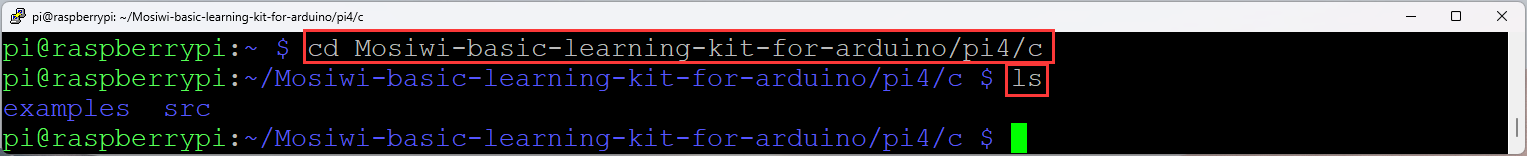
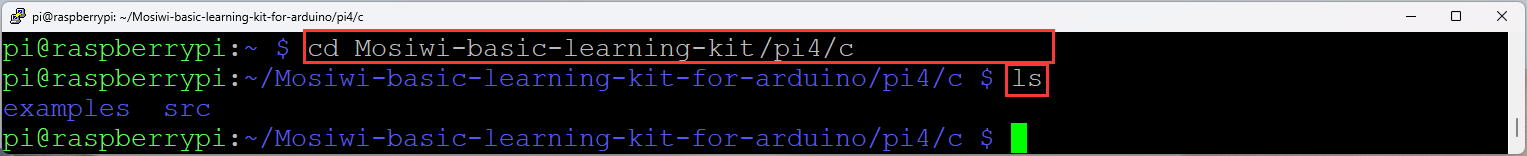
init

Changed region(s): [[0.4925, 0.2308, 0.7079, 0.359]]

diff --git a/docs/source/common_product/C1K0000_4in1_basic_learning_kit/Arduino_tutorial/Basic_tutorial.md b/docs/source/common_product/C1K0000_4in1_basic_learning_kit/Arduino_tutorial/Basic_tutorial.md
@@ -1,0 +1,219 @@
+# Based tutorial   
+Learn simple programming syntax based on the UNO board, and learn the most comprehensive Arduino basics in the fastest way.     
+
+## Previous preparation   
+1. Install the [**Arduino IDE**](../../../arduino/arduino_ide/arduino_ide.md).     
+2. Basic operation of the [**Arduino UNO R3**](../../../arduino/A1D0000_uno_r3/A1D0000_uno_r3.md) motherboard.    
+3. Learn about [**3in1 basic learning shield**](../../../arduino/A1E0000_basic_learning_shield/A1E0000_basic_learning_shield.md).  
+
+## Chapter_1 Blink    
+
+**Curriculum question:**     
+1. What is LED light ?     
+2. setup() and loop() functions in Arduino program.    
+3. How to set up and use digital outlet?   
+4. How to use the delay() delay function?  
+5. How to use the comment symbols in the code: //, /* ... */    
+
+**Program flow diagram:**   
+![Img](../../../_static/common_product/C1K0000_4in1_basic_learning_kit/Arduino_tutorial/Basic_tutorial/2img.png)     
+
+**Open the example code: "1.0.0_Blink"**     
+![Img](../../../_static/common_product/C1K0000_4in1_basic_learning_kit/Arduino_tutorial/Basic_tutorial/1img.png)    
+<span style="color: rgb(255, 76, 65);">Note: All the sample code in the following sections is opened in the same way as in the figure above.</span>     
+
+**Example code phenomena:**    
+The RGB LED on the expansion board emits a red light every 1 second.    
+![Img](../../../_static/common_product/C1K0000_4in1_basic_learning_kit/Arduino_tutorial/Basic_tutorial/4img.png)    
+
+**FAQ:**
+(1) What is LED light?    
+Leds are also known as light-emitting diodes. It has positive and negative poles, generally the shorter pin or the pin near the gap is the negative pole, and the other end is the positive pole. Only when the forward current is connected, the LED light will be lit. Its current is generally required to be about 5-15ma, so resistors are often used in series with leds to achieve current limiting.     
+![Img](../../../_static/common_product/C1K0000_4in1_basic_learning_kit/Arduino_tutorial/Basic_tutorial/3img.png)     
+
+(2) "setup()" and "loop()" functions in Arduino program.
+"setup()" and "loop()" are two functions defined by Arduino. All Arduino programs have and only have one "setup()" and "loop()" functions. When the arduino program is running, the code inside "setup()" is executed first, and then the code inside "loop()" is looped.     
+
+(3) How to set the I/O port to digital output mode?     
+Pins 2-13 on the UNO board can be set to digital output mode to output logic "0" (low level, 0V) and logic "1" (high level, 5V) on the pin.     
+```
+Syntax:    
+pinMode(pin, mode);   
+
+Parameters:  
+pin: The pin number of the arduino motherboard (2-13 for UNO).   
+mode: INPUT, OUTPUT, or INPUT_PULLUP.   
+
+INPUT: Digital input mode.    
+OUTPUT: Digital output mode.     
+INPUT_PULLUP: Digital input mode with pull resistance.        
+```
+
+When mode is set to OUTPUT mode, use the following statement to make the IO port output high or low:    
+```
+Syntax:
+digitalWrite(pin, value);
+
+Parameters:
+pin: The pin number of the arduino motherboard (2-13 for UNO).
+value: HIGH or LOW.
+
+"HIGH" : High level, digital value is 1, voltage value is 5V.
+LOW: Low level, digital value is 0, voltage value is 0V.   
+```
+(4) How to use the delay() function?    
+The delay() function is used to pause the program for a period of time, which can be customized.    
+```
+Syntax:
+delay(ms);
+
+Parameters:
+ms: The value ranges from 0 to 4294967295, in milliseconds.
+```
+
+(5) How to use the comment symbols in the code: //, /\*...\*/
+When we want to parse the function and function of the code with text, we need to use the single-line comment (//) and block comment symbols(/\*...\*/). The text after the comment does not participate in the code running, but is only used to parse the code.     
+```
+Syntax:
+// Text content that needs to be commented
+
+/* Text content to be commented */
+
+/ *
+Text content to be commented
+Text content to be commented
+* /
+```
+
+## Chapter_2 Button    
+
+**Curriculum question:**     
+(1) What is a button?    
+(2) What are variables, byte variables and global variables?    
+(3) How to use the assignment operator: =       
+(4) How to set up and use the digital input port?    
+(5) How to use relational operators: ==,! =   
+(6) How to use the judgment statement: if        
+
+**Program flow diagram:**   
+![Img](../../../_static/common_product/C1K0000_4in1_basic_learning_kit/Arduino_tutorial/Basic_tutorial/5img.png)     
+
+**Open the example code: "1.1.0_Button"**     
+Open the sample code using the methods in **"Chapter_1"**.   
+
+**Example code phenomena:**   
+When the "OK" key is pressed, the red RGB LED lights up, otherwise the RGB LED does not light up.    
+![Img](../../../_static/common_product/C1K0000_4in1_basic_learning_kit/Arduino_tutorial/Basic_tutorial/6img.png)     
+
+**FAQ:**
+(1) What is a button?   
+The key is A press switch, as shown in the following figure, A and B, C and D are directly connected inside, when no press, AB and CD are not connected, when the key is pressed, AB and CD are connected.    
+![Img](../../../_static/common_product/C1K0000_4in1_basic_learning_kit/Arduino_tutorial/Basic_tutorial/7img.png)     
+
+(2) What are variables, byte variables and global variables?   
+Variables come from mathematics and are abstract concepts in computer language that can store calculation results or represent values. Variables can be accessed by variable name.    
+![Img](../../../_static/common_product/C1K0000_4in1_basic_learning_kit/Arduino_tutorial/Basic_tutorial/8img.png)     
+
+**byte** variable is a variable defined by the arduino programming language, and its value ranges from 0 to 255.   
+```  
+Syntax:
+byte var = val;
+
+Parameters:
+var: Parameter name.
+val: The value assigned to the var.
+```
+
+**Global variable** applies to the entire program and is defined outside the stup() and loop() functions, and not inside other functions. The "buttonPin", "ledPin", and "buttonState" variables defined in the sample code can be used in stup() and loop() functions, or in other functions.    
+```
+Syntax: 
+byte buttonPin;          
+byte ledPin;          
+byte buttonState; 
+```
+
+(3) How to use the assignment operator?
+The assignment symbol is "=", note that this symbol is not an equal sign, as in the example:    
+```
+Syntax: 
+buttonPin   = 2;    
+ledPin      = 5;       
+buttonState = 0; 
+```
+
+(4) How to set up and use the digital input port?    
+Pins 2-13 on the UNO board can be set to digital input mode to read the logic "0" (low level, 0V) and "1" (high level, 5V) of the pins.     
+
+Set the pin to digital input mode.      
+```
+Syntax:    
+pinMode(pin, INPUT);   
+
+Parameters:  
+pin: The pin number of the arduino motherboard (2-13 for UNO).           
+```
+Read the value on the pin:   
+```
+Syntax:
+digitalRead(pin);
+
+Parameters:
+pin: The pin number of the arduino board (2-13 for UNO).
+
+Return value:
+HIGH or LOW.
+
+HIGH: High level. The digital value is 1, and the voltage value is greater than 3V.
+LOW: Low level. The digital value is 0 and the voltage is less than 1.5V.
+```
+
+(5) How to use relational operators: ==,! = 
+The equal and unequal relation operators are "==" and "!= ". Commonly used with judging conditions true and false. If variable A is assigned 10 and variable B is assigned 20, then:    
+| symbol | annotation | example |    
+| :--: | :--: | :--: |    
+| == | Check whether the values of the two variables are equal. If equal, the condition is true, otherwise the condition is false. | (A == B) is false |   
+| != | Check whether the values of the two variables are equal. If equal, the condition is true, otherwise the condition is false. | (A != B) is true |     
+
+In the sample code:   
+```
+buttonState == LOW
+buttonState != LOW
+```
+
+(6) How to use the judgment statement: if     
+![Img](../../../_static/common_product/C1K0000_4in1_basic_learning_kit/Arduino_tutorial/Basic_tutorial/9img.png)    
+```
+Syntax:
+if (condition) {
+//statement(s)
+}
+
+Parameters:
+condition: A boolean expression (true or false).
+
+Example:
+if (buttonState == LOW) {
+digitalWrite(ledPin, HIGH);
+}
+
+if (buttonState ! = LOW){
+digitalWrite(ledPin, LOW);
+}
+```
+
+
+
+**End!**    
+For more exciting tutorials, check out the [intermediate tutorial](./Intermediate_tutorial.md)!    
+
+
+
+
+
+
+
+
+
+
+
+

diff --git a/docs/source/arduino/A1E0000_basic_learning_shield/A1E0000_basic_learning_shield.md b/docs/source/arduino/A1E0000_basic_learning_shield/A1E0000_basic_learning_shield.md
@@ -27,19 +27,26 @@ The arduino basic learning shield is based on Uno r3 mainboard design, board set
 | 12. I2C interface (A5, A4 V, G). |
 | 13. Standby interface (G, 6, 5, V, G) |
 
-## Integration library
-**Arduino IDE 2.0.x**  
-Open up the IDE，with the editor open, let's take a look at the left column. Here, we can see a couple of icons.       
+## Integration library     
+This library package is available for Arduino: UNO and NANO, Raspberry pi 4B, and Raspberry pi pico.  
+Download resource: <https://github.com/Mosiwi/Mosiwi-basic-learning-kit>  
 ![Img](../../_static/arduino/A1E0000_basic_learning_shield/3img.png)  
-1. Let's click the on the **"library"** icon.  
-2. Enter **"Mosiwi Basic Learning Kit"** in the search box.  
-3. <span style="color: rgb(255, 76, 65);">It is recommended to select the highest version of the library in the **down menu**.</span>    
-4. Select **"INSTALL"** to install the library.    
+For Arduino UNO and NANO: C++ && C_language  
+For Raspberry pi4: C_language    
+For Raspberry pi pico: Python 
 
+Load the "Mosiwi-basic-learning-kit-main.zip" file downloaded above into the arduino IDE in the following two ways:   
+**(1) Importing a .zip Library**  
+![Img](../../_static/arduino/A1E0000_basic_learning_shield/4img.png)     
+Select the compressed library file to load:    
+![Img](../../_static/arduino/A1E0000_basic_learning_shield/5img.png)    
 
-**Arduino IDE 1.8.x**  
-Open up the IDE, choose "Sketch" > "Include Library" > "Manage Libraries", fill in "Mosiwi Basic Learning Kit" in the search bar, Then select "Install" to Install the library.  
-![Img](../../_static/arduino/A1E0000_basic_learning_shield/4img.png)  
+**(2) Manual Installation**    
+Unzip the "Mosiwi-basic-learning-kit-main.zip" file into the "C:\Users\Administrator\Documents\Arduino\libraries" folder on your PC:     
+![Img](../../_static/arduino/A1E0000_basic_learning_shield/6img.png)      
+
+**Open the sample code in the library file:**    
+![Img](../../_static/arduino/A1E0000_basic_learning_shield/7img.png)     
 
 ## Download
 |      |      |      |      |

diff --git a/docs/source/common_product/C1K0000_4in1_basic_learning_kit/Rpi4_tutorial/C_tutorial.md b/docs/source/common_product/C1K0000_4in1_basic_learning_kit/Rpi4_tutorial/C_tutorial.md
@@ -12,13 +12,13 @@ If you don't have Raspberry pi4 basics, you can follow the link to learn the bas
 **Download sample code**   
 [Login to Raspberry pi4 using PUTTY](../../../raspberry/R1D0000_raspberry_pi4/R1D0000_raspberry_pi4.md#remote-access), then use the following command to download the sample code:      
 ```   
-git clone https://github.com/Mosiwi/Mosiwi-basic-learning-kit-for-arduino     
+git clone https://github.com/Mosiwi/Mosiwi-basic-learning-kit     
 ```    
 ![Img](../../../_static/common_product/C1K0000_4in1_basic_learning_kit/pi4_tutorial/1img.png)    
 
 The file in the "**Mosiwi-basic-learning-kit-for-arduino -> pi4 -> c**" folder is the sample code：           
 ```
-cd Mosiwi-basic-learning-kit-for-arduino/pi4/c
+cd Mosiwi-basic-learning-kit/pi4/c
 
 ls
 ```
@@ -50,7 +50,7 @@ Resource: [GNU Make](https://www.gnu.org/software/make/)(Makefile)
 **Objective_1:**       
 Terminal into the **"1.0.0_Terminal"** folder:    
 ```
-cd ~/Mosiwi-basic-learning-kit-for-arduino/pi4/c/examples/1.0.0_Terminal/    
+cd ~/Mosiwi-basic-learning-kit/pi4/c/examples/1.0.0_Terminal/    
 ```
 Permission to view execution files:   
 ```
@@ -148,7 +148,7 @@ int main(void) {
 **Demonstration:**       
 Run the following command on the terminal:       
 ```
-cd ~/Mosiwi-basic-learning-kit-for-arduino/pi4/c/examples/1.0.1_Arithmetic_operation/     
+cd ~/Mosiwi-basic-learning-kit/pi4/c/examples/1.0.1_Arithmetic_operation/     
 chmod 777 arithmetic_operation     
 sudo ./arithmetic_operation
 ```

diff --git a/docs/source/common_product/C1K0000_4in1_basic_learning_kit/C1K0000_4in1_basic_learning_kit.md b/docs/source/common_product/C1K0000_4in1_basic_learning_kit/C1K0000_4in1_basic_learning_kit.md
@@ -16,8 +16,14 @@ This kit is suitable for teaching and learning programming, providing tutorial m
 ## Course    
 This kit provides tutorials based on 4 types of motherboards, but only pico motherboards are provided, and the others need to be purchased by yourself.    
 
-| Microbit | Raspberry pico | Arduino UNO | Raspberry pi 4 |
+| Microbit | Raspberry pico | Arduino UNO (C and C++) | Raspberry pi 4 |
 | :--: | :--: | :--: | :--: |
-| [Makecode](./Microbit_tutorial/Makecode_tutorial.md) | [MicroPython](./Pico_tutorial/python_tutorial.md) | [Zero-based (C and C++)](./Arduino_tutorial/Zero-based_tutorial.md) | [C language](./Rpi4_tutorial/C_tutorial.md) |
-| xxx | xxx | [Intermediate (C and C++)](./Arduino_tutorial/Intermediate_tutorial.md) | xxx |
-| xxx | xxx | [Advance (C and C++)](./Arduino_tutorial/Advance_tutorial.md) | xxx |
+| [Makecode](./Microbit_tutorial/Makecode_tutorial.md) | [MicroPython](./Pico_tutorial/python_tutorial.md) | [Zero-based](./Arduino_tutorial/Zero-based_tutorial.md) | [C language](./Rpi4_tutorial/C_tutorial.md) |     
+| xxx | xxx | [Basic](./Arduino_tutorial/Basic_tutorial.md) | xxx |
+| xxx | xxx | [Intermediate](./Arduino_tutorial/Intermediate_tutorial.md) | xxx |
+| xxx | xxx | [Advanced](./Arduino_tutorial/Advanced_tutorial.md) | xxx |
+
+
+
+
+

diff --git a/docs/source/index_rst/common/kit/C1K0000_4in1_basic_learning_kit.rst b/docs/source/index_rst/common/kit/C1K0000_4in1_basic_learning_kit.rst
@@ -17,8 +17,9 @@ Return to the listing page: `Go back`_
    Microbit_Makecode_tutorial <../../../common_product/C1K0000_4in1_basic_learning_kit/Microbit_tutorial/Makecode_tutorial.md>
    Raspberry-Pico_python_tutorial <../../../common_product/C1K0000_4in1_basic_learning_kit/Pico_tutorial/python_tutorial.md>
    Arduino_Zero-based_tutorial <../../../common_product/C1K0000_4in1_basic_learning_kit/Arduino_tutorial/Zero-based_tutorial.md>
+   Arduino_Basic_tutorial <../../../common_product/C1K0000_4in1_basic_learning_kit/Arduino_tutorial/Basic_tutorial.md>
    Arduino_Intermediate_tutorial <../../../common_product/C1K0000_4in1_basic_learning_kit/Arduino_tutorial/Intermediate_tutorial.md>
-   Arduino_Advance_tutorial <../../../common_product/C1K0000_4in1_basic_learning_kit/Arduino_tutorial/Advance_tutorial.md>
+   Arduino_Advance_tutorial <../../../common_product/C1K0000_4in1_basic_learning_kit/Arduino_tutorial/Advanced_tutorial.md>
    Raspberry-Pi4_C-language_tutorial <../../../common_product/C1K0000_4in1_basic_learning_kit/Rpi4_tutorial/C_tutorial.md>
     
    

diff --git a/docs/source/common_product/C1K0000_4in1_basic_learning_kit/Arduino_tutorial/Zero-based_tutorial.md b/docs/source/common_product/C1K0000_4in1_basic_learning_kit/Arduino_tutorial/Zero-based_tutorial.md
@@ -3,7 +3,7 @@ This tutorial only focuses on practical operation, without the need to understan
 
 ## Previous preparation   
 1. Install the [**Arduino IDE**](../../../arduino/arduino_ide/arduino_ide.md).  
-2. Install the [**Mosiwi basic learning kit**](../../../arduino/A1E0000_basic_learning_shield/A1E0000_basic_learning_shield.md#Integration-library) library.    
+2. Install the [**Mosiwi basic learning kit**](../../../arduino/A1E0000_basic_learning_shield/A1E0000_basic_learning_shield.md#integration-library) library.    
 3. Basic operation of the [**Arduino UNO R3**](../../../arduino/A1D0000_uno_r3/A1D0000_uno_r3.md) motherboard.    
 
 ## Chapter1 RGB LED    
@@ -165,7 +165,7 @@ If you are using an IDE above 2.0, you can also display the data as a temperatur
 The buzzer on the expansion board will play the "Jingle_bells" song all the time.       
 
 **End!**    
-For more exciting tutorials, check out the beginner tutorial!    
+For more exciting tutorials, check out the [basic tutorial](./Basic_tutorial.md)!    
 
 
 

diff --git a/docs/source/common_product/C1K0001_4x4x4led_cube_kit/C1K0001_4x4x4led_cube_kit.md b/docs/source/common_product/C1K0001_4x4x4led_cube_kit/C1K0001_4x4x4led_cube_kit.md
@@ -33,9 +33,9 @@ If you have multiple cubes, you can string them together as follows.
 This library package is available for Arduino: UNO and NANO, Raspberry pi 4B, and Raspberry pi pico.  
 Download resource: <https://github.com/mosiwi/Mosiwi-4x4x4cube>  
 ![Img](../../_static/common_product/C1K0001_4x4x4led_cube_kit/5img.png)  
-For Arduino UNO and NANO: C  
-For Raspberry pi4: C  
-For Raspberry pi pico: Python  
+For Arduino UNO and NANO: C++ && C_language  
+For Raspberry pi4: C_language    
+For Raspberry pi pico: Python    
 
 ## For Arduino    
 **Arduino basics:**  
@@ -51,7 +51,7 @@ If you don't have Arduino basics, you can follow the link to learn the basics: [
 |      11       |   DIN    |  
 
 **Install the Arduino library file:**  
-Extract the "Mosiwi-4x4x4cube.zip" file downloaded above into the arduino IDE in the following two ways:    
+Load the "Mosiwi-4x4x4cube.zip" file downloaded above into the arduino IDE in the following two ways:    
 1. Importing a .zip Library  
 2. Manual Installation    
 

diff --git a/docs/source/common_product/C1K0000_4in1_basic_learning_kit/Pico_tutorial/python_tutorial.md b/docs/source/common_product/C1K0000_4in1_basic_learning_kit/Pico_tutorial/python_tutorial.md
@@ -6,7 +6,7 @@ This tutorial is based on the [C1K0001 4in1 basic learning kit](../../C1K0000_4i
 If you don't have Pico and Thonny basics, you can follow the link to learn the basics: [Click Me](../../../raspberry/R1D0001_raspberry_pico/R1D0001_raspberry_pico.md)    
 
 **Download sample code** 
-Please download the sample code on Github: <https://github.com/Mosiwi/Mosiwi-basic-learning-kit-for-arduino> 
+Please download the sample code on Github: <https://github.com/Mosiwi/Mosiwi-basic-learning-kit> 
 ![Img](../../../_static/common_product/C1K0000_4in1_basic_learning_kit/Pico_tutorial/1img.png)    
 Unzip the file downloaded above, and the file in the "**pico->python**" folder is the sample code.       
 

diff --git a/docs/source/common_product/C1K0000_4in1_basic_learning_kit/Arduino_tutorial/Intermediate_tutorial.md b/docs/source/common_product/C1K0000_4in1_basic_learning_kit/Arduino_tutorial/Intermediate_tutorial.md
@@ -1,5 +1,5 @@
-# Zero-based tutorial   
-This tutorial only focuses on practical operation, without the need to understand the principles, and understands the simplest Arduino programming operation, so that learners can get a sense of achievement and arouse their interest.    
+# Intermediate tutorial   
+Learn common programming syntax based on "UNO board + expansion board + peripheral module", and learn the most comprehensive arduino syntax and application with the lowest cost.     
 
 ## Previous preparation   
 1. Install the [**Arduino IDE**](../../../arduino/arduino_ide/arduino_ide.md).  

diff --git a/docs/source/common_product/C1K0000_4in1_basic_learning_kit/Arduino_tutorial/Advanced_tutorial.md b/docs/source/common_product/C1K0000_4in1_basic_learning_kit/Arduino_tutorial/Advanced_tutorial.md
@@ -1,5 +1,5 @@
-# Zero-based tutorial   
-This tutorial only focuses on practical operation, without the need to understand the principles, and understands the simplest Arduino programming operation, so that learners can get a sense of achievement and arouse their interest.    
+# Advanced tutorial   
+Learn communication protocol, driver programming and Arduino library development based on "UNO board + expansion board", and crack Arduino programming deeply with the lowest cost.      
 
 ## Previous preparation   
 1. Install the [**Arduino IDE**](../../../arduino/arduino_ide/arduino_ide.md).  

diff --git a/docs/source/arduino/arduino_ide/arduino_ide.md b/docs/source/arduino/arduino_ide/arduino_ide.md
@@ -6,7 +6,7 @@ The purpose of this tutorial is for beginners to quickly use the Arduino IDE, so
 The following steps are performed on a windows PC. It is recommended that beginners use the same device.  
 
 ### Download the installation file
-Download link：https://www.arduino.cc/en/software  
+Download link：<https://www.arduino.cc/en/software>  
 ![Img](../../_static/arduino/arduino_ide/1img.png)  
 
 ### Installation
